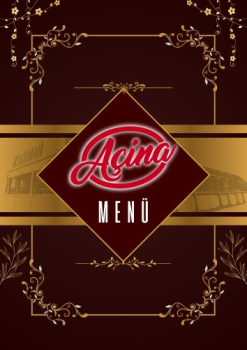
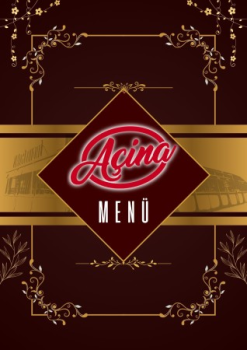
düzenleme

diff --git a/mobile/javascript/config.js b/mobile/javascript/config.js
@@ -136,7 +136,7 @@ btnTableOfContent:["btnBookMark"]
 };
 	
 	
-	;bookConfig.BookTemplateName="metro";bookConfig.loadingCaptionFontSize="20";bookConfig.loadingCaptionColor="#DDDDDD";bookConfig.loadingBackground="#323232";bookConfig.loadingPictureHeight="150";bookConfig.showLoadingGif="Yes";bookConfig.loadingDisplayTime="0";bookConfig.appLogoIcon="files/mobile-ext/appLogoIcon.png";bookConfig.appLogoLinkURL="https://acinarestaurant.com.tr/";bookConfig.appLogoOpenWindow="Blank";bookConfig.logoHeight="40";bookConfig.logoPadding="0";bookConfig.logoTop="0";bookConfig.toolbarColor="#FFFFFF";bookConfig.iconColor="#FF0000";bookConfig.pageNumColor="#000000";bookConfig.iconFontColor="#000000";bookConfig.toolbarAlwaysShow="Yes";bookConfig.ToolBarVisible="Yes";bookConfig.formFontColor="#FFFFFF";bookConfig.formBackgroundColor="#27181A";bookConfig.ToolBarAlpha="1";bookConfig.CurlingPageCorner="Yes";bookConfig.showBookInstructionOnStart="false";bookConfig.InstructionsButtonVisible="Hide";bookConfig.showInstructionOnStart="No";bookConfig.showGotoButtonsAtFirst="No";bookConfig.QRCode="Hide";bookConfig.HomeButtonVisible="Hide";bookConfig.HomeURL="%first page%";bookConfig.aboutButtonVisible="Hide";bookConfig.enablePageBack="Show";bookConfig.ShareButtonVisible="Hide";shareObj = [];bookConfig.addCurrentPage="No";bookConfig.EmailButtonVisible="Hide";bookConfig.btnShareWithEmailBody="{link}";bookConfig.ThumbnailsButtonVisible="Show";bookConfig.thumbnailColor="#333333";bookConfig.thumbnailAlpha="70";bookConfig.ThumbnailSize="small";bookConfig.BookMarkButtonVisible="Hide";bookConfig.TableOfContentButtonVisible="Show";bookConfig.isHideTabelOfContentNodes="yes";bookConfig.SearchButtonVisible="Hide";bookConfig.leastSearchChar="3";bookConfig.searchKeywordFontColor="#FFB000";bookConfig.searchHightlightColor="#ffff00";bookConfig.SelectTextButtonVisible="Hide";bookConfig.PrintButtonVisible="Hide";bookConfig.BackgroundSoundButtonVisible="Show";bookConfig.FlipSound="Yes";bookConfig.BackgroundSoundLoop="-1";bookConfig.bgSoundVol="50";bookConfig.AutoPlayButtonVisible="Hide";bookConfig.autoPlayAutoStart="No";bookConfig.autoPlayDuration="9";bookConfig.autoPlayLoopCount="1";bookConfig.ZoomButtonVisible="Show";bookConfig.maxZoomWidth="1400";bookConfig.defaultZoomWidth="1000";bookConfig.mouseWheelFlip="Yes";bookConfig.ZoomMapVisible="Hide";bookConfig.DownloadButtonVisible="Hide";bookConfig.PhoneButtonVisible="Hide";bookConfig.AnnotationButtonVisible="Hide";bookConfig.FullscreenButtonVisible="Show";bookConfig.MagnifierButtonVisible="Hide";bookConfig.bgBeginColor="#E2E2E2";bookConfig.bgEndColor="#E2E2E2";bookConfig.bgMRotation="90";bookConfig.backGroundImgURL="files/mobile-ext/backGroundImgURL.png";bookConfig.backgroundPosition="stretch";bookConfig.backgroundOpacity="100";bookConfig.backgroundScene="None";bookConfig.LeftShadowWidth="90";bookConfig.LeftShadowAlpha="0.6";bookConfig.RightShadowWidth="55";bookConfig.RightShadowAlpha="0.6";bookConfig.ShowTopLeftShadow="Yes";bookConfig.pageHighlightType="magazine";bookConfig.HardPageEnable="No";bookConfig.hardCoverBorderWidth="8";bookConfig.borderColor="#572F0D";bookConfig.outerCoverBorder="Yes";bookConfig.cornerRound="8";bookConfig.leftMarginOnMobile="0";bookConfig.topMarginOnMobile="0";bookConfig.rightMarginOnMobile="0";bookConfig.bottomMarginOnMobile="0";bookConfig.pageBackgroundColor="#E8E8E8";bookConfig.flipshortcutbutton="Show";bookConfig.phoneFlipShortcutButton="Hide";bookConfig.BindingType="side";bookConfig.RightToLeft="No";bookConfig.FlipDirection="0";bookConfig.flippingTime="0.6";bookConfig.retainBookCenter="Yes";bookConfig.FlipStyle="Flip";bookConfig.autoDoublePage="Yes";bookConfig.isTheBookOpen="No";bookConfig.DoubleSinglePageButtonVisible="hide";bookConfig.thicknessWidthType="Thinner";bookConfig.thicknessColor="#ffffff";bookConfig.SingleModeBanFlipToLastPage="No";bookConfig.showThicknessOnMobile="No";bookConfig.isSingleBookFullWindowOnMobile="no";bookConfig.isStopMouseMenu="yes";bookConfig.restorePageVisible="No";bookConfig.topMargin="10";bookConfig.bottomMargin="10";bookConfig.leftMargin="10";bookConfig.rightMargin="10";bookConfig.hideMiniFullscreen="no";bookConfig.maxWidthToSmallMode="400";bookConfig.maxHeightToSmallMode="300";bookConfig.leftRightPnlShowOption="None";bookConfig.highDefinitionConversion="yes";bookConfig.LargeLogoPosition="top-left";bookConfig.LargeLogoTarget="Blank";bookConfig.isFixLogoSize="No";bookConfig.logoFixWidth="0";bookConfig.logoFixHeight="0";bookConfig.SupportOperatePageZoom="Yes";bookConfig.showHelpContentAtFirst="No";bookConfig.updateURLForPage="No";bookConfig.passwordTips="Please contact the <a href=mailto:author@sample.com><u>author</u></a> to access the web";bookConfig.OnlyOpenInIframe="No";bookConfig.OnlyOpenInIframeInfo="No reading rights";bookConfig.OpenWindow="Blank";bookConfig.showLinkHint="No";bookConfig.MidBgColor="#315497";bookConfig.useTheAliCloudChart ="no";bookConfig.totalPageCount=12;bookConfig.largePageWidth=1024;bookConfig.largePageHeight=1448;;bookConfig.securityType="1";bookConfig.CreatedTime ="260910215615";bookConfig.bookTitle="";bookConfig.bookmarkCR="4135d7c5913c8b2f829fb2a126dc627247f06878";bookConfig.productName="Flip PDF Professional";bookConfig.homePage="http://www.flipbuilder.com";bookConfig.searchPositionJS="mobile/javascript/text_position[1].js";bookConfig.searchTextJS="mobile/javascript/search_config.js";bookConfig.normalPath="files/mobile/";bookConfig.largePath="files/mobile/";bookConfig.thumbPath="files/thumb/";bookConfig.userListPath="files/extfiles/users.js";bookConfig.UIBaseURL='mobile/';var language = [];;function orgt(s){ return binl2hex(core_hx(str2binl(s), s.length * chrsz));};; var pages_information =[];	
+	;bookConfig.BookTemplateName="metro";bookConfig.loadingCaptionFontSize="20";bookConfig.loadingCaptionColor="#DDDDDD";bookConfig.loadingBackground="#323232";bookConfig.loadingPictureHeight="150";bookConfig.showLoadingGif="Yes";bookConfig.loadingDisplayTime="0";bookConfig.appLogoIcon="files/mobile-ext/appLogoIcon.png";bookConfig.appLogoLinkURL="https://acinarestaurant.com.tr/";bookConfig.appLogoOpenWindow="Blank";bookConfig.logoHeight="40";bookConfig.logoPadding="0";bookConfig.logoTop="0";bookConfig.toolbarColor="#FFFFFF";bookConfig.iconColor="#FF0000";bookConfig.pageNumColor="#000000";bookConfig.iconFontColor="#000000";bookConfig.toolbarAlwaysShow="Yes";bookConfig.ToolBarVisible="Yes";bookConfig.formFontColor="#FFFFFF";bookConfig.formBackgroundColor="#27181A";bookConfig.ToolBarAlpha="1";bookConfig.CurlingPageCorner="Yes";bookConfig.showBookInstructionOnStart="false";bookConfig.InstructionsButtonVisible="Hide";bookConfig.showInstructionOnStart="No";bookConfig.showGotoButtonsAtFirst="No";bookConfig.QRCode="Hide";bookConfig.HomeButtonVisible="Hide";bookConfig.HomeURL="%first page%";bookConfig.aboutButtonVisible="Hide";bookConfig.enablePageBack="Show";bookConfig.ShareButtonVisible="Hide";shareObj = [];bookConfig.addCurrentPage="No";bookConfig.EmailButtonVisible="Hide";bookConfig.btnShareWithEmailBody="{link}";bookConfig.ThumbnailsButtonVisible="Show";bookConfig.thumbnailColor="#333333";bookConfig.thumbnailAlpha="70";bookConfig.ThumbnailSize="small";bookConfig.BookMarkButtonVisible="Hide";bookConfig.TableOfContentButtonVisible="Show";bookConfig.isHideTabelOfContentNodes="yes";bookConfig.SearchButtonVisible="Hide";bookConfig.leastSearchChar="3";bookConfig.searchKeywordFontColor="#FFB000";bookConfig.searchHightlightColor="#ffff00";bookConfig.SelectTextButtonVisible="Hide";bookConfig.PrintButtonVisible="Hide";bookConfig.BackgroundSoundButtonVisible="Show";bookConfig.FlipSound="Yes";bookConfig.BackgroundSoundLoop="-1";bookConfig.bgSoundVol="50";bookConfig.AutoPlayButtonVisible="Hide";bookConfig.autoPlayAutoStart="No";bookConfig.autoPlayDuration="9";bookConfig.autoPlayLoopCount="1";bookConfig.ZoomButtonVisible="Show";bookConfig.maxZoomWidth="1400";bookConfig.defaultZoomWidth="1000";bookConfig.mouseWheelFlip="Yes";bookConfig.ZoomMapVisible="Hide";bookConfig.DownloadButtonVisible="Hide";bookConfig.PhoneButtonVisible="Hide";bookConfig.AnnotationButtonVisible="Hide";bookConfig.FullscreenButtonVisible="Show";bookConfig.MagnifierButtonVisible="Hide";bookConfig.bgBeginColor="#E2E2E2";bookConfig.bgEndColor="#E2E2E2";bookConfig.bgMRotation="90";bookConfig.backGroundImgURL="files/mobile-ext/backGroundImgURL.png";bookConfig.backgroundPosition="stretch";bookConfig.backgroundOpacity="100";bookConfig.backgroundScene="None";bookConfig.LeftShadowWidth="90";bookConfig.LeftShadowAlpha="0.6";bookConfig.RightShadowWidth="55";bookConfig.RightShadowAlpha="0.6";bookConfig.ShowTopLeftShadow="Yes";bookConfig.pageHighlightType="magazine";bookConfig.HardPageEnable="No";bookConfig.hardCoverBorderWidth="8";bookConfig.borderColor="#572F0D";bookConfig.outerCoverBorder="Yes";bookConfig.cornerRound="8";bookConfig.leftMarginOnMobile="0";bookConfig.topMarginOnMobile="0";bookConfig.rightMarginOnMobile="0";bookConfig.bottomMarginOnMobile="0";bookConfig.pageBackgroundColor="#E8E8E8";bookConfig.flipshortcutbutton="Show";bookConfig.phoneFlipShortcutButton="Hide";bookConfig.BindingType="side";bookConfig.RightToLeft="No";bookConfig.FlipDirection="0";bookConfig.flippingTime="0.6";bookConfig.retainBookCenter="Yes";bookConfig.FlipStyle="Flip";bookConfig.autoDoublePage="Yes";bookConfig.isTheBookOpen="No";bookConfig.DoubleSinglePageButtonVisible="hide";bookConfig.thicknessWidthType="Thinner";bookConfig.thicknessColor="#ffffff";bookConfig.SingleModeBanFlipToLastPage="No";bookConfig.showThicknessOnMobile="No";bookConfig.isSingleBookFullWindowOnMobile="no";bookConfig.isStopMouseMenu="yes";bookConfig.restorePageVisible="No";bookConfig.topMargin="10";bookConfig.bottomMargin="10";bookConfig.leftMargin="10";bookConfig.rightMargin="10";bookConfig.hideMiniFullscreen="no";bookConfig.maxWidthToSmallMode="400";bookConfig.maxHeightToSmallMode="300";bookConfig.leftRightPnlShowOption="None";bookConfig.highDefinitionConversion="yes";bookConfig.LargeLogoPosition="top-left";bookConfig.LargeLogoTarget="Blank";bookConfig.isFixLogoSize="No";bookConfig.logoFixWidth="0";bookConfig.logoFixHeight="0";bookConfig.SupportOperatePageZoom="Yes";bookConfig.showHelpContentAtFirst="No";bookConfig.updateURLForPage="No";bookConfig.passwordTips="Please contact the <a href=mailto:author@sample.com><u>author</u></a> to access the web";bookConfig.OnlyOpenInIframe="No";bookConfig.OnlyOpenInIframeInfo="No reading rights";bookConfig.OpenWindow="Blank";bookConfig.showLinkHint="No";bookConfig.MidBgColor="#350951";bookConfig.useTheAliCloudChart ="no";bookConfig.totalPageCount=12;bookConfig.largePageWidth=1024;bookConfig.largePageHeight=1448;;bookConfig.securityType="1";bookConfig.CreatedTime ="260911143922";bookConfig.bookTitle="Açina Menü";bookConfig.bookmarkCR="aa88fa9725ccf86f1048570a3704524ffe11714d";bookConfig.productName="Flip PDF Professional";bookConfig.homePage="http://www.flipbuilder.com";bookConfig.searchPositionJS="mobile/javascript/text_position[1].js";bookConfig.searchTextJS="mobile/javascript/search_config.js";bookConfig.normalPath="files/mobile/";bookConfig.largePath="files/mobile/";bookConfig.thumbPath="files/thumb/";bookConfig.userListPath="files/extfiles/users.js";bookConfig.UIBaseURL='mobile/';var language = [];;function orgt(s){ return binl2hex(core_hx(str2binl(s), s.length * chrsz));};; var pageEditor = {"setting":{"annoPlaying":"true","shoppingCartHTML":"false","shoppingCartOptinon":{"type":"PayPal","paypal":"","method":"POST","sandbox":"false","address":"","theme":"","body":"Hi xxx     I'm going to buy below product(s):      ${shopping}  Full Name","showPrice":"true","showTime":"true"}}, "pageAnnos":[[],[],[],[],[],[],[],[],[],[],[],[]]}; bookConfig.isFlipPdf=false; var pages_information =[{pageColor:"16777215",pageIsStrech:"no"},{pageColor:"16777215",pageIsStrech:"no"},{pageColor:"16777215",pageIsStrech:"no"},{pageColor:"16777215",pageIsStrech:"no"},{pageColor:"16777215",pageIsStrech:"no"},{pageColor:"16777215",pageIsStrech:"no"},{pageColor:"16777215",pageIsStrech:"no"},{pageColor:"16777215",pageIsStrech:"no"},{pageColor:"16777215",pageIsStrech:"no"},{pageColor:"16777215",pageIsStrech:"no"},{pageColor:"16777215",pageIsStrech:"no"},{pageColor:"16777215",pageIsStrech:"no"}];	
 	if(language&&language.length>0&&language[0]&&language[0].language){
 		bookConfig.language=language[0].language;
 	}

diff --git a/index.html b/index.html
@@ -12,16 +12,16 @@
 <meta name="apple-mobile-web-app-status-bar-style" content="black" />
  
 <meta name="Keywords" content="" />
-<meta name="Description" content="empty" />
+<meta name="Description" content="Açina Menü" />
 <meta name="Generator" content="Flip PDF Professional 2.4.10.2 at http://www.flipbuilder.com" />
 <link rel="image_src" href="shot.png" />
  <link rel="shortcut icon" href="files/thumb/1.jpg" />
 <link rel="apple-touch-icon" href="files/thumb/1.jpg" />
 
 <meta property="og:image" content="shot.png" />
-<meta property="og:title" content=""/> 
-<meta property="og:description" content="empty" />
-<title></title>
+<meta property="og:title" content="Açina Menü"/> 
+<meta property="og:description" content="Açina Menü" />
+<title>Açina Menü</title>
 
 <link rel="stylesheet" type="text/css" href="mobile/style/style.css" />
 <link rel="stylesheet" type="text/css" href="mobile/style/player.css" />
@@ -40,7 +40,7 @@
 </script>
 </head>	
 <body>
-	<script type="text/javascript" src="mobile/javascript/bookmark_config.js"></script>
+	<script type="text/javascript" src="mobile/javascript/search_config.js"></script><script type="text/javascript" src="mobile/javascript/bookmark_config.js"></script>
 <script type="text/javascript" src="mobile/javascript/LoadingJS.js"></script>
 
 <script type="text/javascript" src="mobile/javascript/main.js"></script>

diff --git a/mobile/javascript/search_config.js b/mobile/javascript/search_config.js
@@ -1,0 +1,1 @@
+var textForPages = [];

diff --git a/mobile/javascript/text_position[10].js b/mobile/javascript/text_position[10].js
@@ -1,0 +1,1 @@
+

diff --git a/mobile/javascript/text_position[11].js b/mobile/javascript/text_position[11].js
@@ -1,0 +1,1 @@
+

diff --git a/mobile/javascript/text_position[12].js b/mobile/javascript/text_position[12].js
@@ -1,0 +1,1 @@
+

diff --git a/mobile/javascript/text_position[1].js b/mobile/javascript/text_position[1].js
@@ -1,0 +1,1 @@
+

diff --git a/mobile/javascript/text_position[2].js b/mobile/javascript/text_position[2].js
@@ -1,0 +1,1 @@
+

diff --git a/mobile/javascript/text_position[3].js b/mobile/javascript/text_position[3].js
@@ -1,0 +1,1 @@
+

diff --git a/mobile/javascript/text_position[4].js b/mobile/javascript/text_position[4].js
@@ -1,0 +1,1 @@
+

diff --git a/mobile/javascript/text_position[5].js b/mobile/javascript/text_position[5].js
@@ -1,0 +1,1 @@
+

diff --git a/mobile/javascript/text_position[6].js b/mobile/javascript/text_position[6].js
@@ -1,0 +1,1 @@
+
